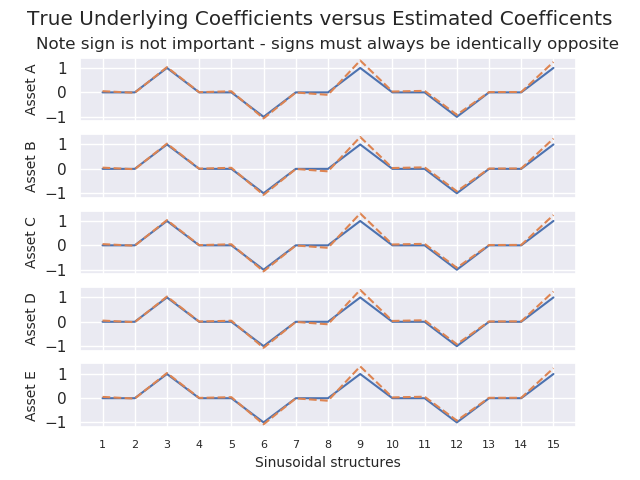
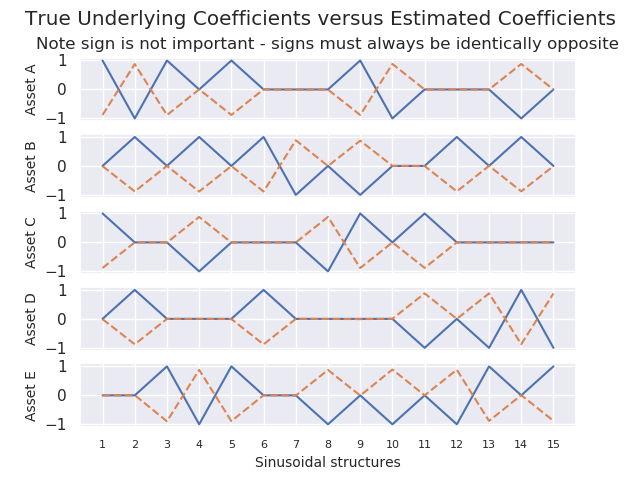
Synthetic LASSO figures created for paper.

diff --git a/CovRegpy_CASE_STUDY_LASSO_synthetic.py b/CovRegpy_CASE_STUDY_LASSO_synthetic.py
@@ -36,7 +36,7 @@ returns = np.random.normal(risk_free, risk_free, size=(1097, 5))
 
 # create base covariance using realised variance
 tickers_format = ['MSFT', 'AAPL', 'GOOGL', 'AMZN', 'TSLA']
-data = yf.download(tickers_format, start="2018-12-31", end="2021-11-14")
+data = yf.download(tickers_format, start="2018-12-31", end="2022-01-01")
 close_data = data['Close']
 date_index = pd.date_range(start='31/12/2018', end='01/01/2022')
 close_data = close_data.reindex(date_index).interpolate()
@@ -45,21 +45,46 @@ close_data = close_data = close_data[::-1]
 base_covariance = np.cov((np.log(np.asarray(close_data)[1:, :]) - np.log(np.asarray(close_data)[:-1, :])).T)
 del close_data, data, date_index, tickers_format
 
+x = np.arange(5)
+y = np.arange(5)
+x, y = np.meshgrid(x, y)
+
+fig = plt.figure()
+fig.set_size_inches(8, 10)
+ax = plt.axes(projection='3d')
+ax.view_init(30, -70)
+ax.set_title('Base Covariance for Five Synthetic Assets')
+cov_plot = ax.plot_surface(x, y, base_covariance, rstride=1, cstride=1, cmap='gist_rainbow',
+                           edgecolor='none')
+ax.set_xticks(ticks=[0, 1, 2, 3, 4])
+ax.set_xticklabels(labels=['A', 'B', 'C', 'D', 'E'], fontsize=8, ha="left", rotation_mode="anchor")
+ax.set_xlabel('Assets', fontsize=8)
+ax.set_yticks(ticks=[0, 1, 2, 3, 4])
+ax.set_yticklabels(labels=['A', 'B', 'C', 'D', 'E'], rotation=0, fontsize=8)
+ax.set_ylabel('Assets', fontsize=8)
+ax.set_zticks(ticks=[0, 0.001])
+ax.set_zticklabels([0, 0.001], fontsize=8)
+ax.set_zlabel('Covariance', fontsize=8)
+cbar = plt.colorbar(cov_plot)
+box_0 = ax.get_position()
+ax.set_position([box_0.x0 - 0.05, box_0.y0, box_0.width, box_0.height])
+plt.savefig('aas_figures/Synthetic_base_covariance')
+plt.show()
+
 # create correlation structure - random structure
 B = np.zeros((5, 15))
-# for i in range(5):
-#     for j in range(15):
-#         rand_uni = np.random.uniform(0, 1)
-#         B[i, j] = 1 * (-1) ** (i + j) if rand_uni > 1 / 2 else 0
+for i in range(5):
+    for j in range(15):
+        rand_uni = np.random.uniform(0, 1)
+        B[i, j] = 1 * (-1) ** (i + j) if rand_uni > 1 / 2 else 0
 # del i, j, rand_uni
 
 # LARS test - best results
-B[:, 2] = 1
-B[:, 5] = -1
-B[:, 8] = 1
-B[:, 11] = -1
-B[:, 14] = 1
-# B = 0.01 * B
+# B[:, 2] = 1
+# B[:, 5] = -1
+# B[:, 8] = 1
+# B[:, 11] = -1
+# B[:, 14] = 1
 
 # LARS test - structures too close to be isolated
 # B[:, 2] = 1
@@ -74,11 +99,29 @@ for day in range(np.shape(covariance_structure)[2]):
                                       np.matmul(np.matmul(B, imfs_synth[:, day]).reshape(-1, 1),
                                                 np.matmul(imfs_synth[:, day].T, B.T).reshape(1, -1))
     # finally correlate returns
-    returns[day, :] = np.dot(cholesky(covariance_structure[:, :, day], lower=True), returns[day, :])
+    returns[day, :] = cholesky(covariance_structure[:, :, day], lower=True).dot(returns[day, :])
 del day
 
-print(np.mean(np.mean(np.mean(np.abs(covariance_structure)))) / np.mean(np.mean(np.abs(base_covariance))))
-plt.plot(np.mean(np.mean(np.abs(covariance_structure), axis=0), axis=0) / np.mean(np.mean(np.abs(base_covariance))))
+fig = plt.figure()
+fig.set_size_inches(8, 10)
+ax = plt.subplot(111)
+ax.set_title('Covariance for Five Synthetic Assets', fontsize=16)
+plt.plot(np.arange(1097), covariance_structure[0, 0, :] * np.ones(1097), label='Asset A')
+plt.plot(np.arange(1097), covariance_structure[1, 1, :] * np.ones(1097), label='Asset B')
+plt.plot(np.arange(1097), covariance_structure[2, 2, :] * np.ones(1097), label='Asset C')
+plt.plot(np.arange(1097), covariance_structure[3, 3, :] * np.ones(1097), label='Asset D')
+plt.plot(np.arange(1097), covariance_structure[4, 4, :] * np.ones(1097), label='Asset E')
+ax.set_xticks(ticks=[0, 365, 731, 1096])
+ax.set_xticklabels(labels=['01-01-2019', '01-01-2020', '01-01-2021', '01-01-2022'], fontsize=8, ha="left",
+                   rotation_mode="anchor", rotation=-30)
+ax.set_yticks(ticks=[0, 5, 10, 15, 20, 25])
+ax.set_yticklabels(labels=[0, 5, 10, 15, 20, 25], fontsize=8)
+ax.set_xlabel('Time', fontsize=10)
+ax.set_ylabel('Covariance', fontsize=10)
+box_0 = ax.get_position()
+ax.set_position([box_0.x0 - 0.05, box_0.y0 + 0.025, box_0.width, box_0.height])
+ax.legend(loc='center left', bbox_to_anchor=(1, 0.5), fontsize=10)
+plt.savefig('aas_figures/Synthetic_correlation')
 plt.show()
 
 cumulative_returns = np.ones((1098, 5))
@@ -88,7 +131,27 @@ tickers = ['A', 'B', 'C', 'D', 'E']
 close_data = pd.DataFrame(columns=tickers, index=date_index)
 close_data.iloc[:] = cumulative_returns
 
-plt.plot(cumulative_returns)
+fig = plt.figure()
+fig.set_size_inches(8, 10)
+ax = plt.subplot(111)
+ax.set_title('Cumulative Returns for Five Synthetic Assets', fontsize=16)
+plt.plot(np.arange(1098), cumulative_returns[:, 0], label='Asset A')
+plt.plot(np.arange(1098), cumulative_returns[:, 1], label='Asset B')
+plt.plot(np.arange(1098), cumulative_returns[:, 2], label='Asset C')
+plt.plot(np.arange(1098), cumulative_returns[:, 3], label='Asset D')
+plt.plot(np.arange(1098), cumulative_returns[:, 4], label='Asset E')
+ax.set_xticks(ticks=[0, 366, 732, 1097])
+ax.set_xticklabels(labels=['31-12-2018', '01-01-2020', '01-01-2021', '01-01-2022'], fontsize=8, ha="left",
+                   rotation_mode="anchor", rotation=-30)
+ax.set_yticks(ticks=[0.98, 0.99, 1, 1.01, 1.02, 1.03, 1.04, 1.05])
+ax.set_yticklabels(labels=[0.98, 0.99, 1, 1.01, 1.02, 1.03, 1.04, 1.05], fontsize=8)
+ax.set_ylim(0.975, 1.055)
+ax.set_xlabel('Time', fontsize=10)
+ax.set_ylabel('Cumulative returns', fontsize=10)
+box_0 = ax.get_position()
+ax.set_position([box_0.x0 - 0.05, box_0.y0 + 0.025, box_0.width, box_0.height])
+ax.legend(loc='center left', bbox_to_anchor=(1, 0.5), fontsize=10)
+plt.savefig('aas_figures/Synthetic_cumulative_returns')
 plt.show()
 
 model_days = 701  # 2 years - less a month
@@ -123,14 +186,14 @@ for lag in range(forecast_days):
 
         fig, axs = plt.subplots(5, 1)
         assets = ['Asset A', 'Asset B', 'Asset C', 'Asset D', 'Asset E']
-        plt.suptitle('True Underlying Coefficients versus Estimated Coefficents')
+        plt.suptitle('True Underlying Coefficients versus Estimated Coefficients')
         for i in range(5):
             if i == 0:
                 axs[i].set_title('Note sign is not important - signs must always be identically opposite')
-            axs[i].plot(np.arange(1, 16, 1), B[i, :],
-                        label=f'True coefficents underlying returns of asset {assets[i]}')
+            axs[i].plot(np.arange(1, 16, 1), -B[i, :],
+                        label=f'True coefficients underlying returns of asset {assets[i]}')
             axs[i].plot(np.arange(1, 16, 1), (1 / risk_free) * B_est[:, i].T, '--',
-                        label=f'Estimate coefficents underlying returns of asset {assets[i]}')
+                        label=f'Estimate coefficients underlying returns of asset {assets[i]}')
             axs[i].set_ylabel(f'{assets[i]}', rotation=90, fontsize=10)
             axs[i].set_xticks((1, 2, 3, 4, 5, 6, 7, 8, 9, 10, 11, 12, 13, 14, 15))
             if i == 4:
@@ -138,7 +201,8 @@ for lag in range(forecast_days):
                                         '6', '7', '8', '9', '10',
                                         '11', '12', '13', '14', '15'), fontsize=8)
                 axs[i].set_xlabel('Sinusoidal structures', fontsize=10)
-        plt.savefig('figures/Synthetic_case_study.png')
+        if lag == 0:
+            plt.savefig('aas_figures/Synthetic_case_study.png')
         plt.show()
 
         variance_Model = Psi_est + np.matmul(np.matmul(B_est.T,
@@ -170,14 +234,50 @@ for lag in range(forecast_days):
                                             iterations=10, technique='lasso', max_iter=500,
                                             groups=groups, LARS=False, true_coefficients=B, test_lasso=True, alpha=1e-8)
 
+        x_mesh = np.arange(5)
+        y = np.arange(5)
+        x_mesh, y = np.meshgrid(x_mesh, y)
+
+        if lag == 0 or lag == 31:
+            fig = plt.figure()
+            fig.set_size_inches(8, 10)
+            ax = plt.axes(projection='3d')
+            ax.view_init(30, -70)
+            ax.set_title('Base Covariance Lasso Estimate for Five Synthetic Assets')
+            cov_plot = ax.plot_surface(x_mesh, y, (1 / (risk_free ** 2)) * Psi_est, rstride=1, cstride=1, cmap='gist_rainbow',
+                                       edgecolor='none')
+            ax.set_xticks(ticks=[0, 1, 2, 3, 4])
+            ax.set_xticklabels(labels=['A', 'B', 'C', 'D', 'E'], fontsize=8, ha="left", rotation_mode="anchor")
+            ax.set_xlabel('Assets', fontsize=8)
+            ax.set_yticks(ticks=[0, 1, 2, 3, 4])
+            ax.set_yticklabels(labels=['A', 'B', 'C', 'D', 'E'], rotation=0, fontsize=8)
+            ax.set_ylabel('Assets', fontsize=8)
+            if lag == 0:
+                ax.set_zticks(ticks=[0, 2])
+                ax.set_zticklabels([0, 2], fontsize=8)
+            if lag == 31:
+                ax.set_zticks(ticks=[0, 0.001])
+                ax.set_zticklabels([0, 0.001], fontsize=8)
+            ax.set_zlabel('Covariance', fontsize=8)
+            cbar = plt.colorbar(cov_plot)
+            box_0 = ax.get_position()
+            ax.set_position([box_0.x0 - 0.05, box_0.y0, box_0.width, box_0.height])
+            if lag == 0:
+                plt.savefig('aas_figures/lasso_correlation_zero.png')
+            if lag == 31:
+                plt.savefig('aas_figures/lasso_correlation_accurate.png')
+            plt.show()
+
         fig, axs = plt.subplots(5, 1)
         assets = ['Asset A', 'Asset B', 'Asset C', 'Asset D', 'Asset E']
-        plt.suptitle('True Underlying Coefficients versus Estimated Coefficents')
+        plt.suptitle('True Underlying Coefficients versus Lasso Estimated Coefficients', fontsize=14)
         for i in range(5):
+            if i == 0:
+                axs[i].set_title('Note sign is not important - signs must always be identically opposite')
             axs[i].plot(np.arange(1, 16, 1), B[i, :],
-                        label=f'True coefficents underlying returns of asset {assets[i]}')
+                        label=f'True coefficients underlying returns of asset {assets[i]}')
             axs[i].plot(np.arange(1, 16, 1), (1 / risk_free) * B_est[:, i].T, '--',
-                        label=f'Estimate coefficents underlying returns of asset {assets[i]}')
+                        label=f'Estimate coefficients underlying returns of asset {assets[i]}')
             axs[i].set_ylabel(f'{assets[i]}', rotation=90, fontsize=10)
             axs[i].set_xticks((1, 2, 3, 4, 5, 6, 7, 8, 9, 10, 11, 12, 13, 14, 15))
             if i == 4:
@@ -185,7 +285,10 @@ for lag in range(forecast_days):
                                         '6', '7', '8', '9', '10',
                                         '11', '12', '13', '14', '15'), fontsize=8)
                 axs[i].set_xlabel('Sinusoidal structures', fontsize=10)
-        plt.savefig('figures/Synthetic_case_study_lasso.png')
+        if lag == 0:
+            plt.savefig('aas_figures/Synthetic_case_study_lasso_zero.png')
+        elif lag == 31:
+            plt.savefig('aas_figures/Synthetic_case_study_lasso_accurate.png')
         plt.show()
 
         variance_Model = Psi_est + np.matmul(np.matmul(B_est.T,
